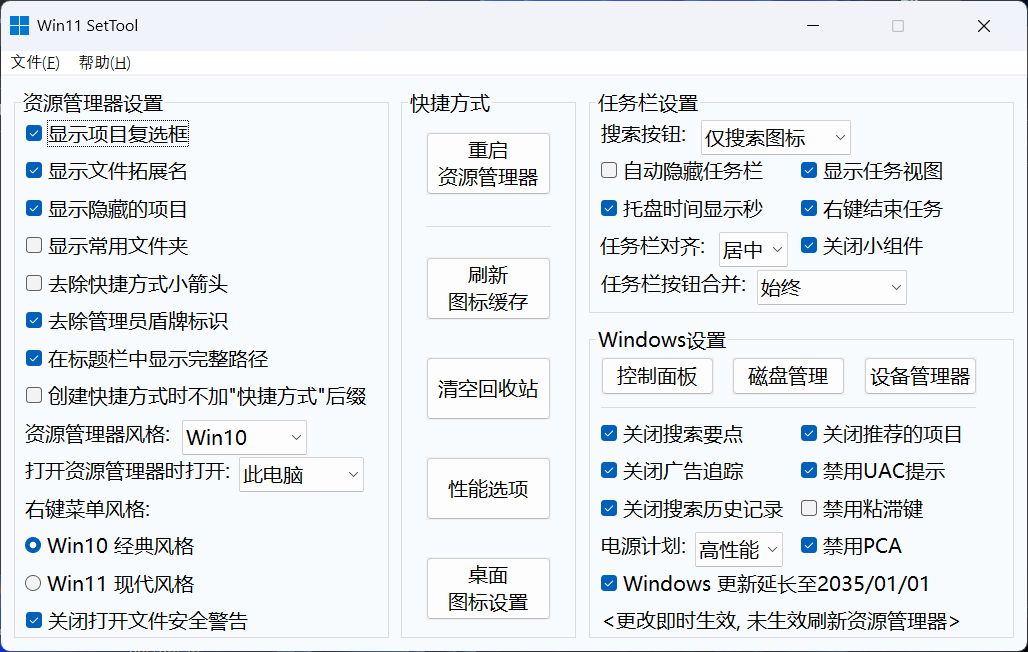
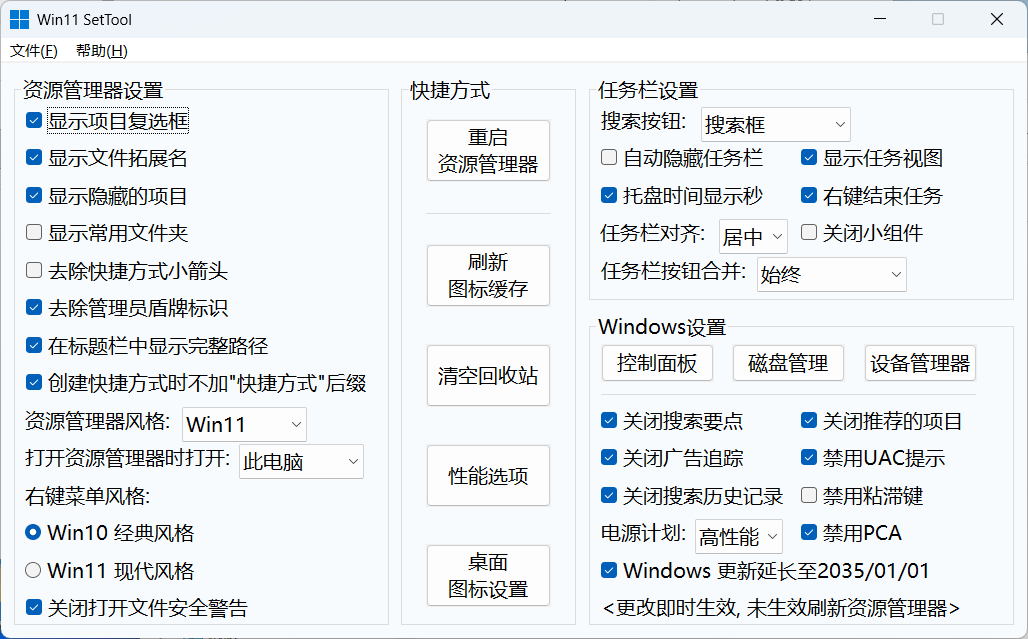
260501

diff --git a/README.md b/README.md
@@ -1,4 +1,52 @@
 # Win11-SetTool
+> Windows 11 系统设置工具 - 基于 AutoHotkey v2.0
 ## 界面预览
 ![](images/img1.png)
+## ✨ 功能特性
 
+### 资源管理器设置
+- [x] 显示项目复选框
+- [x] 显示文件扩展名
+- [x] 显示隐藏项目
+- [x] 去除快捷方式小箭头
+- [x] 去除管理员盾牌标识
+- [x] Win10/Win11 风格切换
+- [x] 右键菜单风格切换
+- [x] 更多...
+
+### 任务栏设置
+- [x] 搜索按钮样式
+- [x] 自动隐藏任务栏
+- [x] 托盘时间显示秒
+- [x] 任务栏对齐方式
+- [x] 更多...
+
+### Windows 系统设置
+- [x] 关闭搜索要点
+- [x] 关闭推荐项目
+- [x] 禁用 UAC 提示
+- [v] 禁用粘滞键
+- [v] 电源计划切换
+- [x] 更多...
+
+## 🚀 快速开始
+
+### 方法 1：直接使用
+1. 下载 [Release](https://github.com/你的用户名/Win11-SetTool/releases) 中的 `Win11_SetTool.exe`
+2. 右键 → 以管理员身份运行
+
+### 方法 2：从源码运行
+1. 安装 [AutoHotkey v2](https://www.autohotkey.com/v2/)
+2. 克隆仓库：`git clone https://github.com/你的用户名/Win11-SetTool.git`
+3. 双击 `AHK.ahk` 运行
+
+## 🛠 开发环境
+
+- AutoHotkey v2.0+
+- Windows 10/11
+- 管理员权限
+
+### 推荐编辑器
+- [Visual Studio Code](https://code.visualstudio.com/) + [AHK++ 插件](https://marketplace.visualstudio.com/items?itemName=thomtheknow.ahkplusplus)
+- [SciTE4AutoHotkey](https://www.autohotkey.com/scite4ahk/)
+- 任意文本编辑器
